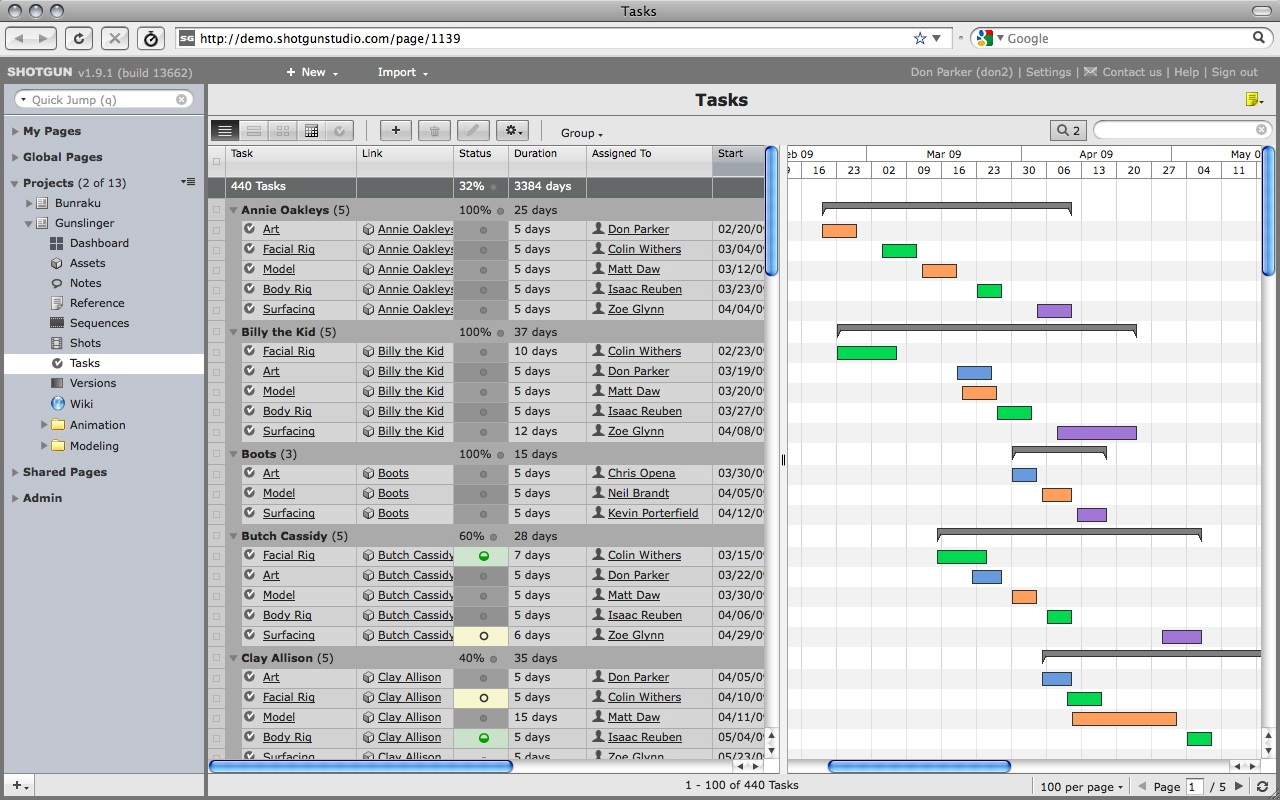
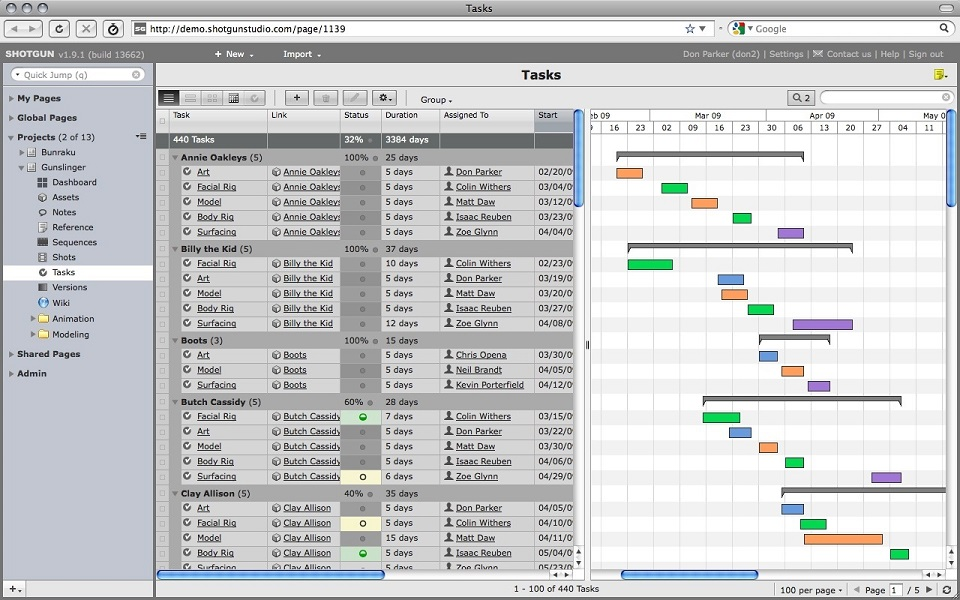
reduced image filesizes

diff --git a/unit_10_vfx_craft.md b/unit_10_vfx_craft.md
@@ -50,7 +50,7 @@ Brief overview.
 
 ### Animation
 
-![Matchmove pic](./images/matchmove.jpg)
+![Matchmove pic](./images/anim_poses.jpg)
 
 *image: Digital Domain*
 
@@ -77,7 +77,7 @@ brief overview
 
 ### Roto
 
-![roto example](./images/roto_before_after.png)
+![roto example](./images/roto_before_after.jpg)
 
 *image + in-depth tutorial: https://pirayaganjanakulnon.wordpress.com/2016/01/12/module-01-assignment-01-rotoscope-shot/*
 
@@ -85,7 +85,7 @@ Roto artists are responsible for creating alpha mattes from scans which isolate 
 
 ### Prep/Paint
 
-![prep example](./images/prep_before_after.png)
+![prep example](./images/prep_before_after.jpg)
 
 *image: http://www.btlnews.com/crafts/visual-fx/level-256-produces-126-vfx-shots-for-the-bourne-legacy/*
 
@@ -107,7 +107,7 @@ A Comper's role is to combine the work of all of the earlier artists departments
 
 An Organised Example of a Nuke node graph:
 
-![Example Node Graph](./images/nuke_node_graph.png)
+![Example Node Graph](./images/nuke_node_graph.jpg)
 
 *image: http://www.jinguanghuang.com/compositing*
 

diff --git a/unit_1_pipeline.md b/unit_1_pipeline.md
@@ -7,7 +7,7 @@ The pipeline is a term used to describe a system, made up of many different step
 
 A typical VFX pipeline:
 
-![A Pipeline (Representation by Andrew Whitehurst)](./images/andrew_whitehurst_pipeline.png)
+![A Pipeline (Representation by Andrew Whitehurst)](./images/andrew_whitehurst_pipeline.jpg)
 
 *image: Andrew Whitehurst*
 
